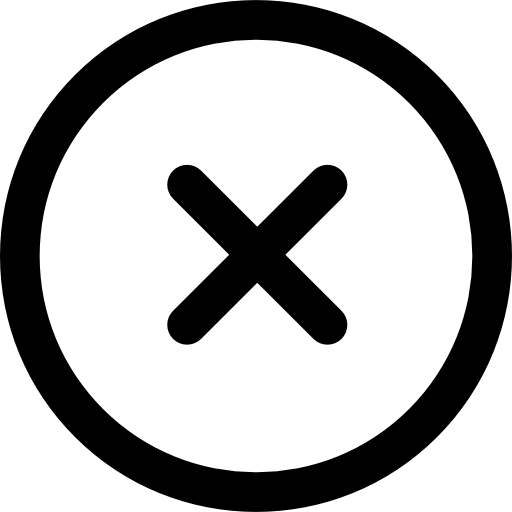
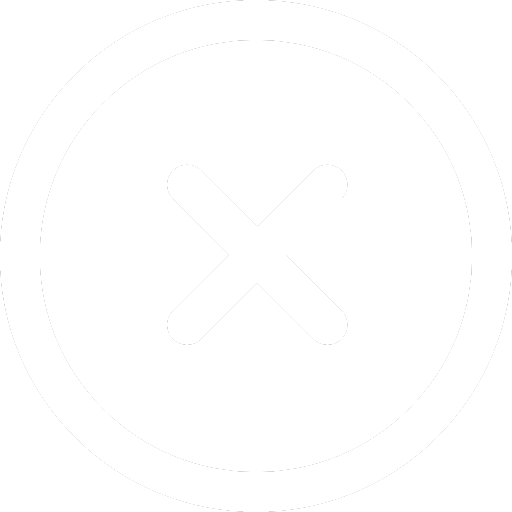
Adding close button to tags

Changed region(s): [[0.0, 0.0, 1.0, 1.0], [0.3125, 0.3125, 0.6875, 0.6875]]

diff --git a/scripts/pages/index.js b/scripts/pages/index.js
@@ -320,13 +320,22 @@ document.getElementById("ustensilsInput").addEventListener("keyup", displayNewDa
 
 //----------------------------DisplayTags----------------------------//
 
+function closeTag(idName) {
+    document.getElementById(idName).remove();
+}
+
 document.getElementById("ingredientsInput").addEventListener("focusout", function() {
     let ingredientsTagInput = document.getElementById("ingredientsInput");
     if(ingredientsTagInput.value.length >= 3) {
         const pTag = document.createElement( 'p' );
         pTag.setAttribute("class", "tagIngredient");
-        const close = document.createElement( 'i' );
-        close.setAttribute("class", "fa fa-times-circle"); //-----------ADDING PNG IMAGE INSTEAD OF ICON "CLOSE.PNG"
+        let idName = "tagIngredient " + ingredientsTagInput.value.toLowerCase();
+        pTag.setAttribute("id", idName);
+        const close = document.createElement( 'img' );
+        close.setAttribute("src", "./assets/images/close.png");
+        close.addEventListener("click", function() {
+            closeTag(idName);
+          });
         pTag.textContent = ingredientsTagInput.value.toLowerCase();
         pTag.appendChild(close);
         const mainTag = document.querySelector(".mainTag");
@@ -339,8 +348,13 @@ document.getElementById("applianceInput").addEventListener("focusout", function(
     if(applianceTagInput.value.length >= 3) {
         const pTag = document.createElement( 'p' );
         pTag.setAttribute("class", "tagAppliance");
-        const close = document.createElement( 'i' );
-        close.setAttribute("class", "fa fa-times-circle");
+        let idName = "tagAppliance " + applianceTagInput.value.toLowerCase();
+        pTag.setAttribute("id", idName);
+        const close = document.createElement( 'img' );
+        close.setAttribute("src", "./assets/images/close.png");
+        close.addEventListener("click", function() {
+            closeTag(idName);
+          });
         pTag.textContent = applianceTagInput.value.toLowerCase();
         pTag.appendChild(close);
         const mainTag = document.querySelector(".mainTag");
@@ -353,8 +367,13 @@ document.getElementById("ustensilsInput").addEventListener("focusout", function(
     if(ustensilsTagInput.value.length >= 3) {
         const pTag = document.createElement( 'p' );
         pTag.setAttribute("class", "tagUstensils");
-        const close = document.createElement( 'i' );
-        close.setAttribute("class", "fa fa-times-circle");
+        let idName = "tagUstensils " + ustensilsTagInput.value.toLowerCase();
+        pTag.setAttribute("id", idName);
+        const close = document.createElement( 'img' );
+        close.setAttribute("src", "./assets/images/close.png");
+        close.addEventListener("click", function() {
+            closeTag(idName);
+          });
         pTag.textContent = ustensilsTagInput.value.toLowerCase();
         pTag.appendChild(close);
         const mainTag = document.querySelector(".mainTag");

diff --git a/css/style.css b/css/style.css
@@ -98,12 +98,16 @@
 }
 
 .tagIngredient, .tagAppliance, .tagUstensils {
-    margin: 1%;
     padding: 0.5%;
     border-radius: 0.3em;
+    margin: 0em 0.5em 0em 0em;
+    display: flex;
+    align-items: center;
 }
 
- .mainTag .fa-circle-xmark:before {
-    font-size: 3em;
-    color: white;
+ .mainTag img {
+    width: 1.5em;
+    height: 1.5em;
+    margin: 5%;
+    cursor: pointer;
 }
